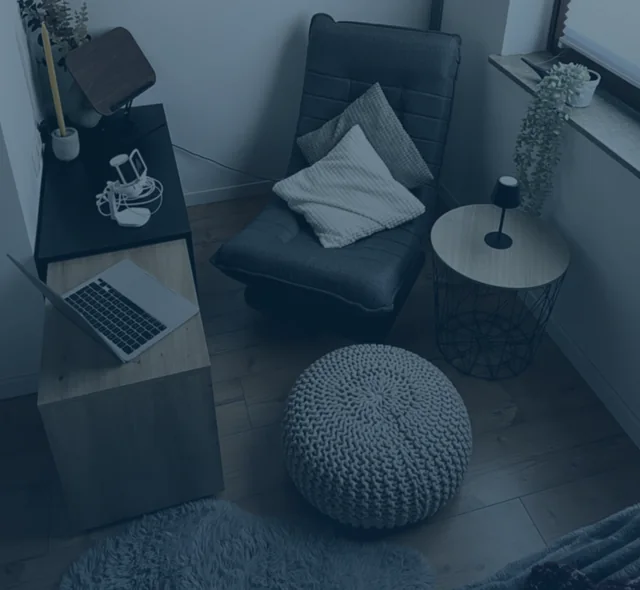
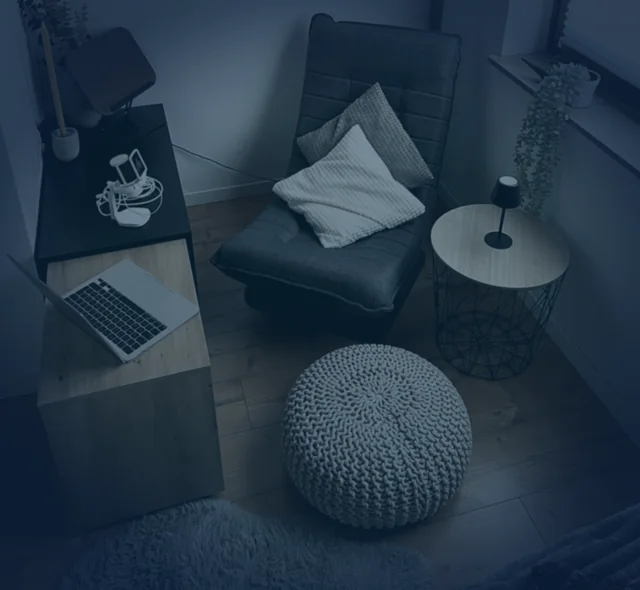
Foto der Podcast Ecke klein in den Footer aller Seiten, Bildränder blauer
Claude-Session: https://claude.ai/code/session_01PmzFABqcL3rfiwRoFZxh7U

diff --git a/blog.html b/blog.html
@@ -11,7 +11,7 @@
 <link rel="stylesheet" href="modern.css">
 <link rel="preload" href="assets/fonts/pjs-latin-800.woff2" as="font" type="font/woff2" crossorigin>
 <link rel="preload" as="image" href="assets/fotos/hero-blog.webp" fetchpriority="high">
-<link rel="stylesheet" href="pflegelabor.css?v=13">
+<link rel="stylesheet" href="pflegelabor.css?v=15">
 <script type="application/ld+json">{"@context": "https://schema.org", "@type": "CollectionPage", "name": "Blog zur Pflegeausbildung: Alle Beiträge", "description": "Alle Beiträge zur Ausbildung zum Pflegefachmann: Alltag, digitales Lernen, Demenz, wissenschaftliches Arbeiten und Organisation, nach Rubriken sortiert.", "url": "https://pflegelaborblog.de/blog.html", "inLanguage": "de", "isPartOf": {"@type": "WebSite", "name": "Pflegelaborblog", "url": "https://pflegelaborblog.de/"}, "publisher": {"@type": "Person", "name": "Steffen"}, "mainEntity": {"@type": "Blog", "name": "Pflegelaborblog", "url": "https://pflegelaborblog.de/blog.html", "blogPost": [{"@type": "BlogPosting", "headline": "Pflegeneuordnungsgesetz (PNOG): Was sich für Pflegeheime ändern soll", "url": "https://pflegelaborblog.de/beitrag-pflegeneuordnungsgesetz.html"}, {"@type": "BlogPosting", "headline": "Gespräche im Pflegealltag: Kleine Worte, große Wirkung", "url": "https://pflegelaborblog.de/beitrag-gespraeche-alltag.html"}, {"@type": "BlogPosting", "headline": "Dekubitus: Wie Druckgeschwüre entstehen und wie wir sie in der Pflege verhindern", "url": "https://pflegelaborblog.de/beitrag-dekubitus.html"}, {"@type": "BlogPosting", "headline": "Mein Workflow in der Ausbildung: KI als Organisationspartner", "url": "https://pflegelaborblog.de/beitrag-workflow.html"}, {"@type": "BlogPosting", "headline": "Warum ich Pflegefachmann werde", "url": "https://pflegelaborblog.de/beitrag-warum-pflegefachmann.html"}, {"@type": "BlogPosting", "headline": "Der Umgang mit dem Tod in der Pflege", "url": "https://pflegelaborblog.de/beitrag-umgang-tod.html"}, {"@type": "BlogPosting", "headline": "So lernen wir in der Pflegeausbildung", "url": "https://pflegelaborblog.de/beitrag-lernkonzept.html"}, {"@type": "BlogPosting", "headline": "Wie ich meine Ausbildung digital ordne", "url": "https://pflegelaborblog.de/beitrag-ordnerstruktur.html"}, {"@type": "BlogPosting", "headline": "Willkommen auf meinem Blog", "url": "https://pflegelaborblog.de/beitrag-willkommen.html"}], "author": {"@type": "Person", "name": "Steffen", "jobTitle": "Auszubildender Pflegefachmann"}}}</script>
 </head>
 <body>
@@ -99,6 +99,7 @@
 </main>
 <footer>
   <div class="wrap">
+    <img class="footer-ecke" src="assets/podcast-ecke-mikrofon-sessel-320.webp" alt="" width="320" height="295" loading="lazy" decoding="async">
     <p><a href="impressum.html">Impressum</a><a href="datenschutz.html">Datenschutz</a><a href="barrierefreiheit.html">Barrierefreiheit</a></p>
     <p>Pflegelaborblog · Ausbildung zum Pflegefachmann · Keine Bewohnerdaten, keine Mitarbeiterdaten, keine Angaben zu Arbeitsplatz oder Schule. Privates Ehrenamt in der Freizeit, ohne Einnahmen.</p>
   </div>

diff --git a/index.html b/index.html
@@ -13,7 +13,7 @@
 <link rel="stylesheet" href="modern.css">
 <link rel="preload" href="assets/fonts/pjs-latin-800.woff2" as="font" type="font/woff2" crossorigin>
 <link rel="preload" as="image" href="assets/fotos/hero-start.webp" fetchpriority="high">
-<link rel="stylesheet" href="pflegelabor.css?v=13">
+<link rel="stylesheet" href="pflegelabor.css?v=15">
 <script type="application/ld+json">{"@context": "https://schema.org", "@type": "Blog", "name": "Pflegelaborblog", "description": "Blog zur Ausbildung zum Pflegefachmann: Alltag, digitales Lernen und wissenschaftliches Arbeiten.", "inLanguage": "de", "url": "https://pflegelaborblog.de/", "author": {"@type": "Person", "name": "Steffen", "jobTitle": "Auszubildender Pflegefachmann"}, "publisher": {"@type": "Person", "name": "Steffen"}}</script>
 </head>
 <body>
@@ -138,6 +138,7 @@
 </main>
 <footer>
   <div class="wrap">
+    <img class="footer-ecke" src="assets/podcast-ecke-mikrofon-sessel-320.webp" alt="" width="320" height="295" loading="lazy" decoding="async">
     <div class="socials on-dark footer-socials"><span class="social is-soon" role="img" aria-label="Instagram, kommt bald" title="Instagram, kommt bald"><svg viewBox="0 0 24 24" width="22" height="22" fill="none" stroke="currentColor" stroke-width="2" stroke-linecap="round" stroke-linejoin="round" aria-hidden="true"><rect x="3" y="3" width="18" height="18" rx="5"/><circle cx="12" cy="12" r="4"/><circle cx="17.5" cy="6.5" r="1" fill="currentColor" stroke="none"/></svg><span>Instagram</span></span><span class="social is-soon" role="img" aria-label="TikTok, kommt bald" title="TikTok, kommt bald"><svg viewBox="0 0 24 24" width="22" height="22" fill="none" stroke="currentColor" stroke-width="2" stroke-linecap="round" stroke-linejoin="round" aria-hidden="true"><path d="M14 3v11.5a3.5 3.5 0 1 1-3.5-3.5"/><path d="M14 3c.4 2.4 2 4 4.5 4.2"/></svg><span>TikTok</span></span><span class="socials-note">Kommt bald</span></div>
     <p><a href="impressum.html">Impressum</a><a href="datenschutz.html">Datenschutz</a><a href="barrierefreiheit.html">Barrierefreiheit</a></p>
     <p>Pflegelaborblog · Ausbildung zum Pflegefachmann · Keine Bewohnerdaten, keine Mitarbeiterdaten, keine Angaben zu Arbeitsplatz oder Schule. Privates Ehrenamt in der Freizeit, ohne Einnahmen.</p>

diff --git a/podcast.html b/podcast.html
@@ -11,7 +11,7 @@
 <link rel="stylesheet" href="modern.css">
 <link rel="preload" href="assets/fonts/pjs-latin-800.woff2" as="font" type="font/woff2" crossorigin>
 <link rel="preload" as="image" href="assets/fotos/hero-podcast.webp" fetchpriority="high">
-<link rel="stylesheet" href="pflegelabor.css?v=14">
+<link rel="stylesheet" href="pflegelabor.css?v=15">
 <script type="application/ld+json">{"@context": "https://schema.org", "@type": "WebPage", "name": "Podcast zur Pflegeausbildung", "description": "Der Podcast zum Pflegelaborblog: Ausgewählte Themen aus der Ausbildung zum Pflegefachmann zum Hören.", "url": "https://pflegelaborblog.de/podcast.html", "inLanguage": "de", "isPartOf": {"@type": "WebSite", "name": "Pflegelaborblog", "url": "https://pflegelaborblog.de/"}, "publisher": {"@type": "Person", "name": "Steffen"}}</script>
 <script type="application/ld+json">{"@context": "https://schema.org", "@type": "PodcastEpisode", "name": "Von der Industrie in die Pflege: Mein Weg zur Ausbildung", "url": "https://podcastbb54d2.podigee.io/1-folge-1-willkommen", "datePublished": "2026-10-12", "timeRequired": "PT12M", "inLanguage": "de", "author": {"@type": "Person", "name": "Steffen"}}</script>
 </head>
@@ -72,6 +72,7 @@
 </main>
 <footer>
   <div class="wrap">
+    <img class="footer-ecke" src="assets/podcast-ecke-mikrofon-sessel-320.webp" alt="" width="320" height="295" loading="lazy" decoding="async">
     <p><a href="impressum.html">Impressum</a><a href="datenschutz.html">Datenschutz</a><a href="barrierefreiheit.html">Barrierefreiheit</a></p>
     <p>Pflegelaborblog · Ausbildung zum Pflegefachmann · Keine Bewohnerdaten, keine Mitarbeiterdaten, keine Angaben zu Arbeitsplatz oder Schule. Privates Ehrenamt in der Freizeit, ohne Einnahmen.</p>
   </div>

diff --git a/ueber-mich.html b/ueber-mich.html
@@ -10,7 +10,7 @@
 <link rel="stylesheet" href="style.css">
 <link rel="stylesheet" href="modern.css">
 <link rel="preload" href="assets/fonts/pjs-latin-800.woff2" as="font" type="font/woff2" crossorigin>
-<link rel="stylesheet" href="pflegelabor.css?v=13">
+<link rel="stylesheet" href="pflegelabor.css?v=15">
 <script type="application/ld+json">{"@context": "https://schema.org", "@type": "AboutPage", "name": "Über mich: Steffen, Auszubildender Pflegefachmann", "description": "Wer schreibt hier? Steffen, Auszubildender zum Pflegefachmann, über seinen Weg in die Pflege, digitales Lernen und seine Pläne für ein Pflegewissenschaft Studium.", "url": "https://pflegelaborblog.de/ueber-mich.html", "inLanguage": "de", "isPartOf": {"@type": "WebSite", "name": "Pflegelaborblog", "url": "https://pflegelaborblog.de/"}, "publisher": {"@type": "Person", "name": "Steffen"}, "mainEntity": {"@type": "Person", "name": "Steffen", "jobTitle": "Auszubildender Pflegefachmann"}}</script>
 </head>
 <body>
@@ -62,6 +62,7 @@
 </main>
 <footer>
   <div class="wrap">
+    <img class="footer-ecke" src="assets/podcast-ecke-mikrofon-sessel-320.webp" alt="" width="320" height="295" loading="lazy" decoding="async">
     <p><a href="impressum.html">Impressum</a><a href="datenschutz.html">Datenschutz</a><a href="barrierefreiheit.html">Barrierefreiheit</a></p>
     <p>Pflegelaborblog · Ausbildung zum Pflegefachmann · Keine Bewohnerdaten, keine Mitarbeiterdaten, keine Angaben zu Arbeitsplatz oder Schule. Privates Ehrenamt in der Freizeit, ohne Einnahmen.</p>
   </div>

diff --git a/mitmachen.html b/mitmachen.html
@@ -11,7 +11,7 @@
 <link rel="stylesheet" href="modern.css">
 <link rel="preload" href="assets/fonts/pjs-latin-800.woff2" as="font" type="font/woff2" crossorigin>
 <link rel="preload" as="image" href="assets/fotos/hero-mitmachen.webp" fetchpriority="high">
-<link rel="stylesheet" href="pflegelabor.css?v=13">
+<link rel="stylesheet" href="pflegelabor.css?v=15">
 <script type="application/ld+json">{"@context": "https://schema.org", "@type": "WebPage", "name": "Mitmachen: Gastbeitrag zur Pflegeausbildung", "description": "Du lernst oder arbeitest in der Pflege und möchtest schreiben? So wirst du Autorin oder Autor auf dem Pflegelaborblog.", "url": "https://pflegelaborblog.de/mitmachen.html", "inLanguage": "de", "isPartOf": {"@type": "WebSite", "name": "Pflegelaborblog", "url": "https://pflegelaborblog.de/"}, "publisher": {"@type": "Person", "name": "Steffen"}}</script>
 </head>
 <body>
@@ -92,6 +92,7 @@
 </main>
 <footer>
   <div class="wrap">
+    <img class="footer-ecke" src="assets/podcast-ecke-mikrofon-sessel-320.webp" alt="" width="320" height="295" loading="lazy" decoding="async">
     <p><a href="impressum.html">Impressum</a><a href="datenschutz.html">Datenschutz</a><a href="barrierefreiheit.html">Barrierefreiheit</a></p>
     <p>Pflegelaborblog · Ausbildung zum Pflegefachmann · Keine Bewohnerdaten, keine Mitarbeiterdaten, keine Angaben zu Arbeitsplatz oder Schule. Privates Ehrenamt in der Freizeit, ohne Einnahmen.</p>
   </div>

diff --git a/videoblog.html b/videoblog.html
@@ -12,7 +12,7 @@
 <link rel="stylesheet" href="video.css">
 <link rel="preload" href="assets/fonts/pjs-latin-800.woff2" as="font" type="font/woff2" crossorigin>
 <link rel="preload" as="image" href="assets/fotos/hero-video.webp" fetchpriority="high">
-<link rel="stylesheet" href="pflegelabor.css?v=13">
+<link rel="stylesheet" href="pflegelabor.css?v=15">
 <script type="application/ld+json">{"@context": "https://schema.org", "@type": "WebPage", "name": "Videoblog zur Pflegeausbildung", "description": "Der Videoblog zum Pflegelaborblog ist in Planung: Ausbildung zum Pflegefachmann, digitales Lernen und Organisation, bald auch als Video.", "url": "https://pflegelaborblog.de/videoblog.html", "inLanguage": "de", "isPartOf": {"@type": "WebSite", "name": "Pflegelaborblog", "url": "https://pflegelaborblog.de/"}, "publisher": {"@type": "Person", "name": "Steffen"}}</script>
 </head>
 <body>
@@ -99,6 +99,7 @@
 </main>
 <footer>
   <div class="wrap">
+    <img class="footer-ecke" src="assets/podcast-ecke-mikrofon-sessel-320.webp" alt="" width="320" height="295" loading="lazy" decoding="async">
     <p><a href="impressum.html">Impressum</a><a href="datenschutz.html">Datenschutz</a><a href="barrierefreiheit.html">Barrierefreiheit</a></p>
     <p>Pflegelaborblog · Ausbildung zum Pflegefachmann · Keine Bewohnerdaten, keine Mitarbeiterdaten, keine Angaben zu Arbeitsplatz oder Schule. Privates Ehrenamt in der Freizeit, ohne Einnahmen.</p>
   </div>

diff --git a/beitrag-gespraeche-alltag.html b/beitrag-gespraeche-alltag.html
@@ -10,7 +10,7 @@
 <link rel="stylesheet" href="style.css">
 <link rel="stylesheet" href="modern.css">
 <link rel="preload" href="assets/fonts/pjs-latin-800.woff2" as="font" type="font/woff2" crossorigin>
-<link rel="stylesheet" href="pflegelabor.css?v=13">
+<link rel="stylesheet" href="pflegelabor.css?v=15">
 <script type="application/ld+json">{"@context": "https://schema.org", "@type": "BlogPosting", "mainEntityOfPage": "https://pflegelaborblog.de/beitrag-gespraeche-alltag.html", "image": "https://pflegelaborblog.de/assets/cover-gespraeche-alltag.jpg", "headline": "Gespräche im Pflegealltag: Kleine Worte, große Wirkung", "inLanguage": "de", "url": "https://pflegelaborblog.de/beitrag-gespraeche-alltag.html", "datePublished": "2026-10-11", "author": {"@type": "Person", "name": "Steffen"}, "publisher": {"@type": "Person", "name": "Steffen"}}</script>
 </head>
 <body>
@@ -67,6 +67,7 @@
 </main>
 <footer>
   <div class="wrap">
+    <img class="footer-ecke" src="assets/podcast-ecke-mikrofon-sessel-320.webp" alt="" width="320" height="295" loading="lazy" decoding="async">
     <p><a href="impressum.html">Impressum</a><a href="datenschutz.html">Datenschutz</a><a href="barrierefreiheit.html">Barrierefreiheit</a></p>
     <p>Pflegelaborblog · Ausbildung zum Pflegefachmann · Keine Bewohnerdaten, keine Mitarbeiterdaten, keine Angaben zu Arbeitsplatz oder Schule. Privates Ehrenamt in der Freizeit, ohne Einnahmen.</p>
   </div>

diff --git a/beitrag-warum-pflegefachmann.html b/beitrag-warum-pflegefachmann.html
@@ -10,7 +10,7 @@
 <link rel="stylesheet" href="style.css">
 <link rel="stylesheet" href="modern.css">
 <link rel="preload" href="assets/fonts/pjs-latin-800.woff2" as="font" type="font/woff2" crossorigin>
-<link rel="stylesheet" href="pflegelabor.css?v=13">
+<link rel="stylesheet" href="pflegelabor.css?v=15">
 <script type="application/ld+json">{"@context": "https://schema.org", "@type": "BlogPosting", "mainEntityOfPage": "https://pflegelaborblog.de/beitrag-warum-pflegefachmann.html", "image": "https://pflegelaborblog.de/assets/cover-warum-pflegefachmann.jpg", "headline": "Warum ich Pflegefachmann werde", "inLanguage": "de", "url": "https://pflegelaborblog.de/beitrag-warum-pflegefachmann.html", "datePublished": "2026-10-08", "author": {"@type": "Person", "name": "Steffen"}, "publisher": {"@type": "Person", "name": "Steffen"}}</script>
 </head>
 <body>
@@ -75,6 +75,7 @@
 </main>
 <footer>
   <div class="wrap">
+    <img class="footer-ecke" src="assets/podcast-ecke-mikrofon-sessel-320.webp" alt="" width="320" height="295" loading="lazy" decoding="async">
     <p><a href="impressum.html">Impressum</a><a href="datenschutz.html">Datenschutz</a><a href="barrierefreiheit.html">Barrierefreiheit</a></p>
     <p>Pflegelaborblog · Ausbildung zum Pflegefachmann · Keine Bewohnerdaten, keine Mitarbeiterdaten, keine Angaben zu Arbeitsplatz oder Schule. Privates Ehrenamt in der Freizeit, ohne Einnahmen.</p>
   </div>

diff --git a/team.html b/team.html
@@ -11,7 +11,7 @@
 <link rel="stylesheet" href="modern.css">
 <link rel="preload" href="assets/fonts/pjs-latin-800.woff2" as="font" type="font/woff2" crossorigin>
 <link rel="preload" as="image" href="assets/fotos/hero-team.webp" fetchpriority="high">
-<link rel="stylesheet" href="pflegelabor.css?v=13">
+<link rel="stylesheet" href="pflegelabor.css?v=15">
 <script type="application/ld+json">{"@context": "https://schema.org", "@type": "WebPage", "name": "Team: Autorinnen und Autoren aus der Pflege", "description": "Auszubildende und Pflegende, die auf dem Pflegelaborblog mitschreiben, mit eigener Autorenseite.", "url": "https://pflegelaborblog.de/team.html", "inLanguage": "de", "isPartOf": {"@type": "WebSite", "name": "Pflegelaborblog", "url": "https://pflegelaborblog.de/"}, "publisher": {"@type": "Person", "name": "Steffen"}}</script>
 </head>
 <body>
@@ -55,6 +55,7 @@
 </main>
 <footer>
   <div class="wrap">
+    <img class="footer-ecke" src="assets/podcast-ecke-mikrofon-sessel-320.webp" alt="" width="320" height="295" loading="lazy" decoding="async">
     <p><a href="impressum.html">Impressum</a><a href="datenschutz.html">Datenschutz</a><a href="barrierefreiheit.html">Barrierefreiheit</a></p>
     <p>Pflegelaborblog · Ausbildung zum Pflegefachmann · Keine Bewohnerdaten, keine Mitarbeiterdaten, keine Angaben zu Arbeitsplatz oder Schule. Privates Ehrenamt in der Freizeit, ohne Einnahmen.</p>
   </div>

diff --git a/beitrag-workflow.html b/beitrag-workflow.html
@@ -10,7 +10,7 @@
 <link rel="stylesheet" href="style.css">
 <link rel="stylesheet" href="modern.css">
 <link rel="preload" href="assets/fonts/pjs-latin-800.woff2" as="font" type="font/woff2" crossorigin>
-<link rel="stylesheet" href="pflegelabor.css?v=13">
+<link rel="stylesheet" href="pflegelabor.css?v=15">
 <script type="application/ld+json">{"@context": "https://schema.org", "@type": "BlogPosting", "mainEntityOfPage": "https://pflegelaborblog.de/beitrag-workflow.html", "image": "https://pflegelaborblog.de/assets/cover-workflow.jpg", "headline": "Mein Workflow in der Ausbildung: KI als Organisationspartner", "inLanguage": "de", "url": "https://pflegelaborblog.de/beitrag-workflow.html", "datePublished": "2026-10-09", "author": {"@type": "Person", "name": "Steffen"}, "publisher": {"@type": "Person", "name": "Steffen"}}</script>
 </head>
 <body>
@@ -101,6 +101,7 @@
 </main>
 <footer>
   <div class="wrap">
+    <img class="footer-ecke" src="assets/podcast-ecke-mikrofon-sessel-320.webp" alt="" width="320" height="295" loading="lazy" decoding="async">
     <p><a href="impressum.html">Impressum</a><a href="datenschutz.html">Datenschutz</a><a href="barrierefreiheit.html">Barrierefreiheit</a></p>
     <p>Pflegelaborblog · Ausbildung zum Pflegefachmann · Keine Bewohnerdaten, keine Mitarbeiterdaten, keine Angaben zu Arbeitsplatz oder Schule. Privates Ehrenamt in der Freizeit, ohne Einnahmen.</p>
   </div>

diff --git a/beitrag-ordnerstruktur.html b/beitrag-ordnerstruktur.html
@@ -10,7 +10,7 @@
 <link rel="stylesheet" href="style.css">
 <link rel="stylesheet" href="modern.css">
 <link rel="preload" href="assets/fonts/pjs-latin-800.woff2" as="font" type="font/woff2" crossorigin>
-<link rel="stylesheet" href="pflegelabor.css?v=13">
+<link rel="stylesheet" href="pflegelabor.css?v=15">
 <script type="application/ld+json">{"@context": "https://schema.org", "@type": "BlogPosting", "mainEntityOfPage": "https://pflegelaborblog.de/beitrag-ordnerstruktur.html", "image": "https://pflegelaborblog.de/assets/cover-ordnerstruktur.jpg", "headline": "Wie ich meine Ausbildung digital ordne", "inLanguage": "de", "url": "https://pflegelaborblog.de/beitrag-ordnerstruktur.html", "datePublished": "2026-10-04", "author": {"@type": "Person", "name": "Steffen"}, "publisher": {"@type": "Person", "name": "Steffen"}}</script>
 </head>
 <body>
@@ -89,6 +89,7 @@
 </main>
 <footer>
   <div class="wrap">
+    <img class="footer-ecke" src="assets/podcast-ecke-mikrofon-sessel-320.webp" alt="" width="320" height="295" loading="lazy" decoding="async">
     <p><a href="impressum.html">Impressum</a><a href="datenschutz.html">Datenschutz</a><a href="barrierefreiheit.html">Barrierefreiheit</a></p>
     <p>Pflegelaborblog · Ausbildung zum Pflegefachmann · Keine Bewohnerdaten, keine Mitarbeiterdaten, keine Angaben zu Arbeitsplatz oder Schule. Privates Ehrenamt in der Freizeit, ohne Einnahmen.</p>
   </div>

diff --git a/beitrag-lernkonzept.html b/beitrag-lernkonzept.html
@@ -10,7 +10,7 @@
 <link rel="stylesheet" href="style.css">
 <link rel="stylesheet" href="modern.css">
 <link rel="preload" href="assets/fonts/pjs-latin-800.woff2" as="font" type="font/woff2" crossorigin>
-<link rel="stylesheet" href="pflegelabor.css?v=13">
+<link rel="stylesheet" href="pflegelabor.css?v=15">
 <script type="application/ld+json">{"@context": "https://schema.org", "@type": "BlogPosting", "mainEntityOfPage": "https://pflegelaborblog.de/beitrag-lernkonzept.html", "image": "https://pflegelaborblog.de/assets/cover-lernkonzept.jpg", "headline": "So lernen wir in der Pflegeausbildung", "inLanguage": "de", "url": "https://pflegelaborblog.de/beitrag-lernkonzept.html", "datePublished": "2026-10-05", "author": {"@type": "Person", "name": "Steffen"}, "publisher": {"@type": "Person", "name": "Steffen"}}</script>
 </head>
 <body>
@@ -75,6 +75,7 @@
 </main>
 <footer>
   <div class="wrap">
+    <img class="footer-ecke" src="assets/podcast-ecke-mikrofon-sessel-320.webp" alt="" width="320" height="295" loading="lazy" decoding="async">
     <p><a href="impressum.html">Impressum</a><a href="datenschutz.html">Datenschutz</a><a href="barrierefreiheit.html">Barrierefreiheit</a></p>
     <p>Pflegelaborblog · Ausbildung zum Pflegefachmann · Keine Bewohnerdaten, keine Mitarbeiterdaten, keine Angaben zu Arbeitsplatz oder Schule. Privates Ehrenamt in der Freizeit, ohne Einnahmen.</p>
   </div>
